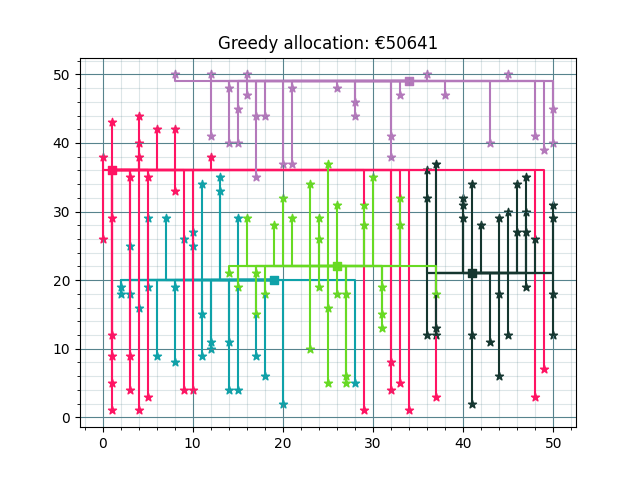
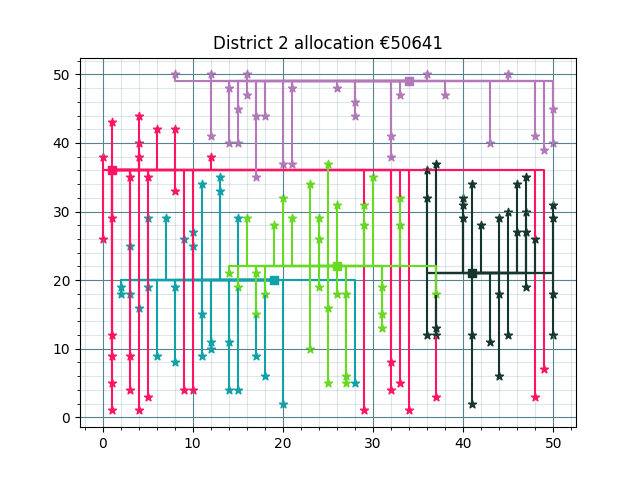
figures

Changed region(s): [[0.3125, 0.0625, 0.6875, 0.125]]

diff --git a/main.py b/main.py
@@ -1,13 +1,11 @@
-import time
-import numpy as np 
+from datetime import datetime
+import numpy as np
 import matplotlib.pyplot as plt 
-from mpl_toolkits.mplot3d import Axes3D
 from matplotlib import cm 
+from mpl_toolkits.mplot3d import Axes3D
 
 from code.classes.district import District
-
 from code.algorithms import greedy, random, simulatedannealing, hillclimber
-
 from code.visualisation import visualise
 
 if __name__ == "__main__":
@@ -34,7 +32,7 @@ if __name__ == "__main__":
     while 'y' not in save.lower() and 'n' not in save.lower():
         save = input("Do you want to save the figure? Type y(es) or n(o). ")
 
-    start = time.time()
+    # begin_runtime = datetime.now()
     district = District(number)
     if 'r' in algo1:
         algo = random.Random(district)

diff --git a/code/algorithms/hillclimber.py b/code/algorithms/hillclimber.py
@@ -12,14 +12,13 @@ class HillClimber:
             Maak de aanpassing ongedaan
     """
 
-    def __init__(self, start_state, n):
+    def __init__(self, start_state):
         self.connections = start_state.connections
         self.start_costs = start_state.costs
-        self.n = n
         self.districtnumber = start_state.districtnumber
         self.name = 'Hill Climber'
 
-    def run(self):
+    def run_unique(self):
         # de kosten van de oude state zijn op dit moment ook de beste kosten, er valt nog niks te vergelijken
         self.best_costs = self.calculate_costs() 
 

diff --git a/code/visualisation/visualise.py b/code/visualisation/visualise.py
@@ -35,7 +35,7 @@ class Grid:
         plt.title(f"District {self.number} allocation €{self.costs}")
 
         if self.version != None:
-            plt.savefig(f'figures/{selfname.lower()}/version_{self.version}/unique/District {self.number} allocation €{self.costs}')
+            plt.savefig(f'figures/{self.name.lower()}/version_{self.version}/unique/District {self.number} allocation €{self.costs}')
         else:
             plt.savefig(f'figures/{self.name.lower()}/unique/District {self.number} allocation €{self.costs}')
 
